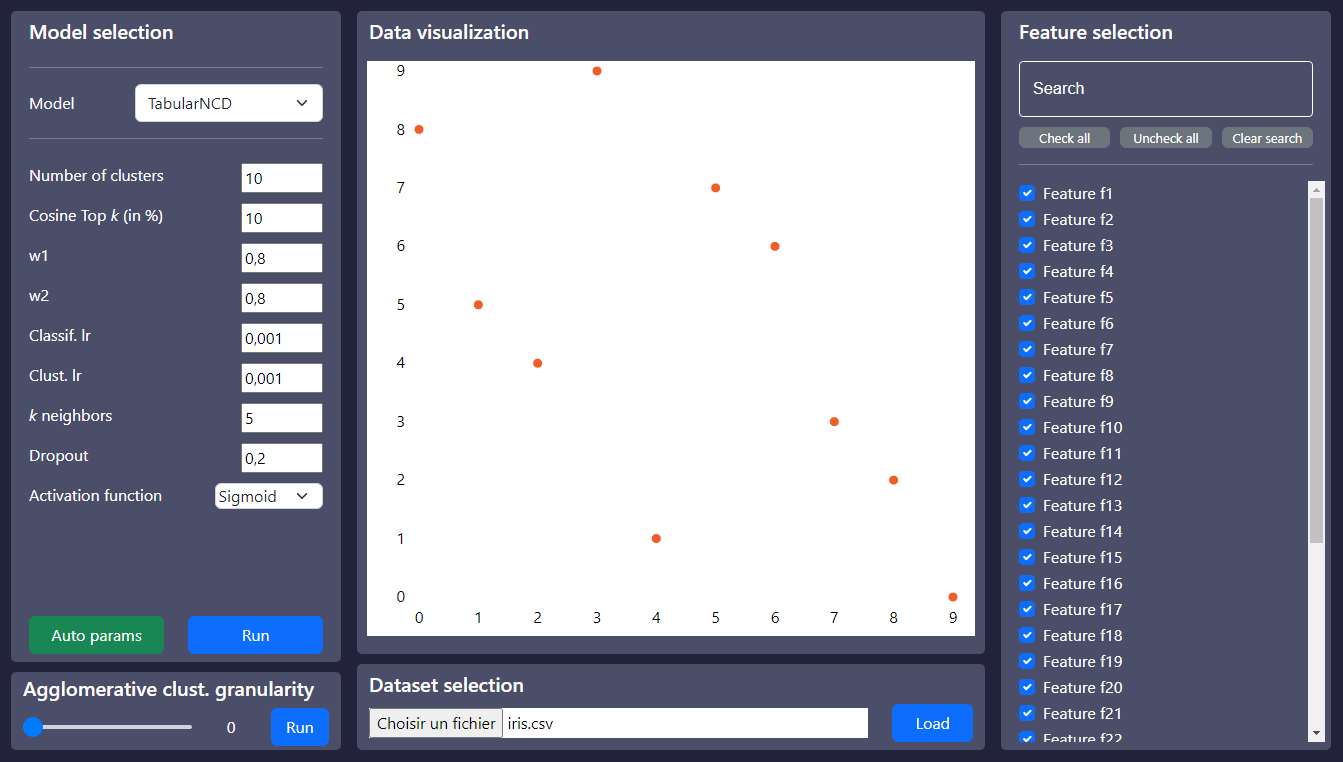
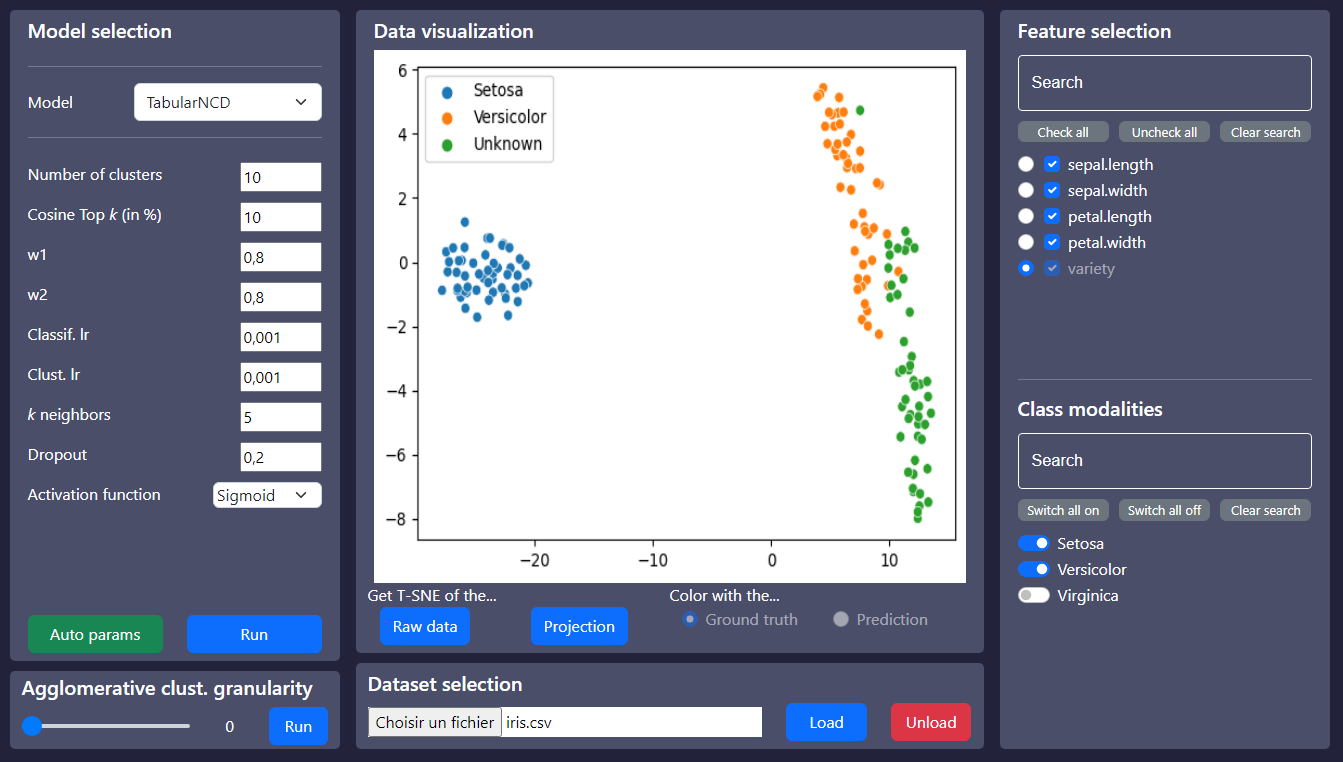
QOF improvements of the interface

diff --git a/frontend/src/components/FullPage.js b/frontend/src/components/FullPage.js
@@ -13,7 +13,8 @@ import fireSwalError from "./swal_functions";
 class FullPage extends React.Component {
     constructor(props) {
         super(props);
-        this.state = {
+
+        this.initial_state = {
             // The states of the children that need to be shared are "lifted" here
             dataset_name : null,
 
@@ -31,10 +32,12 @@ class FullPage extends React.Component {
 
             image_to_display: null,
         };
+
+        this.state = this.initial_state;
     }
 
     onNewFeaturesLoaded = (new_features) => {
-        const new_formatted_features = new_features.map((feature, index) => ({"name": feature, "checked" : true, index : index}))
+        const new_formatted_features = new_features.map((feature, index) => ({"name": feature, "checked" : true, index : index, "disabled": false}))
         this.setState({formatted_features: new_formatted_features})
         this.setState({search_filtered_features_list: this.getUpdatedFilteredList(new_formatted_features, this.state.feature_search_query)})
     }
@@ -94,9 +97,9 @@ class FullPage extends React.Component {
     onSwitchAllOnButtonClick = () => {
         if (this.state.class_values_to_display != null) {
             let class_values_to_display = [...this.state.class_values_to_display];  // Make a shallow copy
-            this.state.search_filtered_unique_values_list.map((feature) => (  // For each feature currently displayed...
+            this.state.search_filtered_unique_values_list.forEach(feature => {  // For each feature currently displayed...
                 class_values_to_display[feature.index].checked = true
-            ))
+            })
 
             const updated_filtered_list = this.getUpdatedFilteredList(class_values_to_display, this.state.unique_values_search_query)
             this.setState({class_values_to_display: class_values_to_display, search_filtered_unique_values_list: updated_filtered_list})  // And finally replace the array in the state
@@ -106,10 +109,9 @@ class FullPage extends React.Component {
     onSwitchAllOffButtonClick = () => {
         if (this.state.class_values_to_display != null) {
             let class_values_to_display = [...this.state.class_values_to_display];  // Make a shallow copy
-            this.state.search_filtered_unique_values_list.map((feature) => (  // For each feature currently displayed...
+            this.state.search_filtered_unique_values_list.forEach(feature => {  // For each feature currently displayed...
                 class_values_to_display[feature.index].checked = false
-            ))
-
+            })
             const updated_filtered_list = this.getUpdatedFilteredList(class_values_to_display, this.state.unique_values_search_query)
             this.setState({class_values_to_display: class_values_to_display, search_filtered_unique_values_list: updated_filtered_list})  // And finally replace the array in the state
         }
@@ -118,10 +120,9 @@ class FullPage extends React.Component {
     onUncheckAllButtonClick = () => {
         if (this.state.formatted_features != null) {
             let formatted_features = [...this.state.formatted_features];  // Make a shallow copy
-            this.state.search_filtered_features_list.map((feature) => (  // For each feature currently displayed...
+            this.state.search_filtered_features_list.forEach(feature => {  // For each feature currently displayed...
                 formatted_features[feature.index].checked = false
-            ))
-
+            })
             const updated_filtered_list = this.getUpdatedFilteredList(formatted_features, this.state.feature_search_query)
             this.setState({formatted_features: formatted_features, search_filtered_features_list: updated_filtered_list})  // And finally replace the array in the state
         }
@@ -130,10 +131,9 @@ class FullPage extends React.Component {
     onCheckAllButtonClick = () => {
         if (this.state.formatted_features != null) {
             let formatted_features = [...this.state.formatted_features];  // Make a shallow copy
-            this.state.search_filtered_features_list.map((feature) => (  // For each feature currently displayed...
+            this.state.search_filtered_features_list.forEach(feature => {  // For each feature currently displayed...
                 formatted_features[feature.index].checked = true
-            ))
-
+            })
             const updated_filtered_list = this.getUpdatedFilteredList(formatted_features, this.state.feature_search_query)
             this.setState({formatted_features: formatted_features, search_filtered_features_list: updated_filtered_list})  // And finally replace the array in the state
         }
@@ -163,6 +163,20 @@ class FullPage extends React.Component {
                     }
                 })
 
+                const known_classes = []
+                this.state.class_values_to_display.forEach(unique_value => {
+                    if(unique_value.checked === true){
+                        known_classes.push(unique_value.name)
+                    }
+                })
+
+                const unknown_classes = []
+                this.state.class_values_to_display.forEach(unique_value => {
+                    if(unique_value.checked === false){
+                        unknown_classes.push(unique_value.name)
+                    }
+                })
+
                 const requestOptions = {
                     method: 'POST',
                     headers: { 'Content-Type': 'application/json' },
@@ -172,8 +186,8 @@ class FullPage extends React.Component {
                         'target_name': this.state.selected_class_feature,
                         'tsne_seed' : 0,
                         'tsne_perplexity': 30.0,
-                        'known_classes': [],
-                        'unknown_classes': [],
+                        'known_classes': known_classes,
+                        'unknown_classes': unknown_classes,
                         'color_by': 'known_only'
                     })
                 }
@@ -214,6 +228,14 @@ class FullPage extends React.Component {
     }
 
     onFeatureRadioButtonChange = (feature_name) => {
+        // Set the feature checkbox to true and disable it
+        let formatted_features = [...this.state.formatted_features];  // Make a shallow copy
+        this.state.search_filtered_features_list.forEach(feature => {  // For each feature currently displayed...
+            formatted_features[feature.index].disabled = feature.name === feature_name;
+        })
+        const updated_filtered_list = this.getUpdatedFilteredList(formatted_features, this.state.feature_search_query)
+        this.setState({formatted_features: formatted_features, search_filtered_features_list: updated_filtered_list})  // And finally replace the array in the state
+
         // Send request to the Flask server to display the unique values of this feature
         const requestOptions = {
             method: 'POST',
@@ -238,6 +260,10 @@ class FullPage extends React.Component {
 
     setDatasetNameHandler = (dataset_name) => {
         this.setState({dataset_name: dataset_name})
+    }
+
+    unloadDatasetHandler = () => {
+        this.setState(this.initial_state)
     }
 
     render() {
@@ -266,7 +292,8 @@ class FullPage extends React.Component {
                         </Row>
                         <Row className="my_row mx-1 py-2">
                             <DatasetSelector onNewFeaturesLoaded={this.onNewFeaturesLoaded}
-                                             setDatasetNameHandler={this.setDatasetNameHandler}/>
+                                             setDatasetNameHandler={this.setDatasetNameHandler}
+                                             unloadDatasetHandler={this.unloadDatasetHandler}/>
                         </Row>
                     </Col>
 

diff --git a/frontend/src/components/DatasetSelector.js b/frontend/src/components/DatasetSelector.js
@@ -9,7 +9,7 @@ class DatasetSelector extends React.Component {
     constructor(props) {
         super(props);
         this.state = {
-            selectedFile: null
+            selectedFile: ""
         };
     }
 
@@ -17,8 +17,14 @@ class DatasetSelector extends React.Component {
         this.setState({ selectedFile: event.target.files[0].name })
     }
 
+    onDatasetUnload = () => {
+        this.setState({selectedFile: ""})
+        document.getElementById("my_input_file_form").value = "";
+        this.props.unloadDatasetHandler()
+    }
+
     onFileUpload = () => {
-        if (this.state.selectedFile == null){
+        if (this.state.selectedFile === ""){
             fireSwalError('Please select a file to load')
         } else {
             const requestOptions = {
@@ -51,11 +57,14 @@ class DatasetSelector extends React.Component {
                         <h5>Dataset selection</h5>
                     </Row>
                     <Row className="d-flex flex-row">
-                        <Col className="col-10 d-flex flex-column justify-content-center">
-                            <input type="file" onChange={this.onFileChange} style={{backgroundColor: "white", color: "black"}}/>
+                        <Col className="col-8 d-flex flex-column justify-content-center">
+                            <input type="file" onChange={this.onFileChange} style={{backgroundColor: "white", color: "black"}} id="my_input_file_form"/>
                         </Col>
                         <Col className="col-2 d-flex flex-column" style={{textAlign: "right"}}>
                             <button type="button" className="btn btn-primary" onClick={this.onFileUpload}>Load</button>
+                        </Col>
+                        <Col className="col-2 d-flex flex-column" style={{textAlign: "right"}}>
+                            <button type="button" className="btn btn-danger" onClick={this.onDatasetUnload}>Unload</button>
                         </Col>
                     </Row>
                 </Col>

diff --git a/frontend/src/components/FeatureSelection.js b/frontend/src/components/FeatureSelection.js
@@ -42,6 +42,7 @@ class FeatureSelection extends React.Component {
                                     onChange={() => this.props.onChangeCheckbox(feature.index)}
                                     checked={feature.checked}
                                     key={"checkbox_" + feature.name}
+                                    disabled={feature.disabled}
                                 />
                             </Col>
                         </Row>

diff --git a/backend/server.py b/backend/server.py
@@ -153,7 +153,9 @@ def getDatasetTSNE():
 
             fig = Figure()
             axis = fig.add_subplot(1, 1, 1)
-            sns.scatterplot(ax=axis, hue=dataset[target_name], x=np.array(tsne_array[tsne_array.columns[0]]), y=np.array(tsne_array[tsne_array.columns[1]]))
+            target_array = np.array(dataset[target_name])
+            target_array = [target if target in known_classes else "Unknown" for target in target_array]
+            sns.scatterplot(ax=axis, x=np.array(tsne_array[tsne_array.columns[0]]), y=np.array(tsne_array[tsne_array.columns[1]]), hue=target_array)
             fig.savefig(os.path.join(image_folder_path, image_filename), dpi=fig.dpi, bbox_inches='tight')
 
             results_dict[dataset_name][corresponding_tsne_config_name]['images_config']['image_' + image_datetime_string] = {
